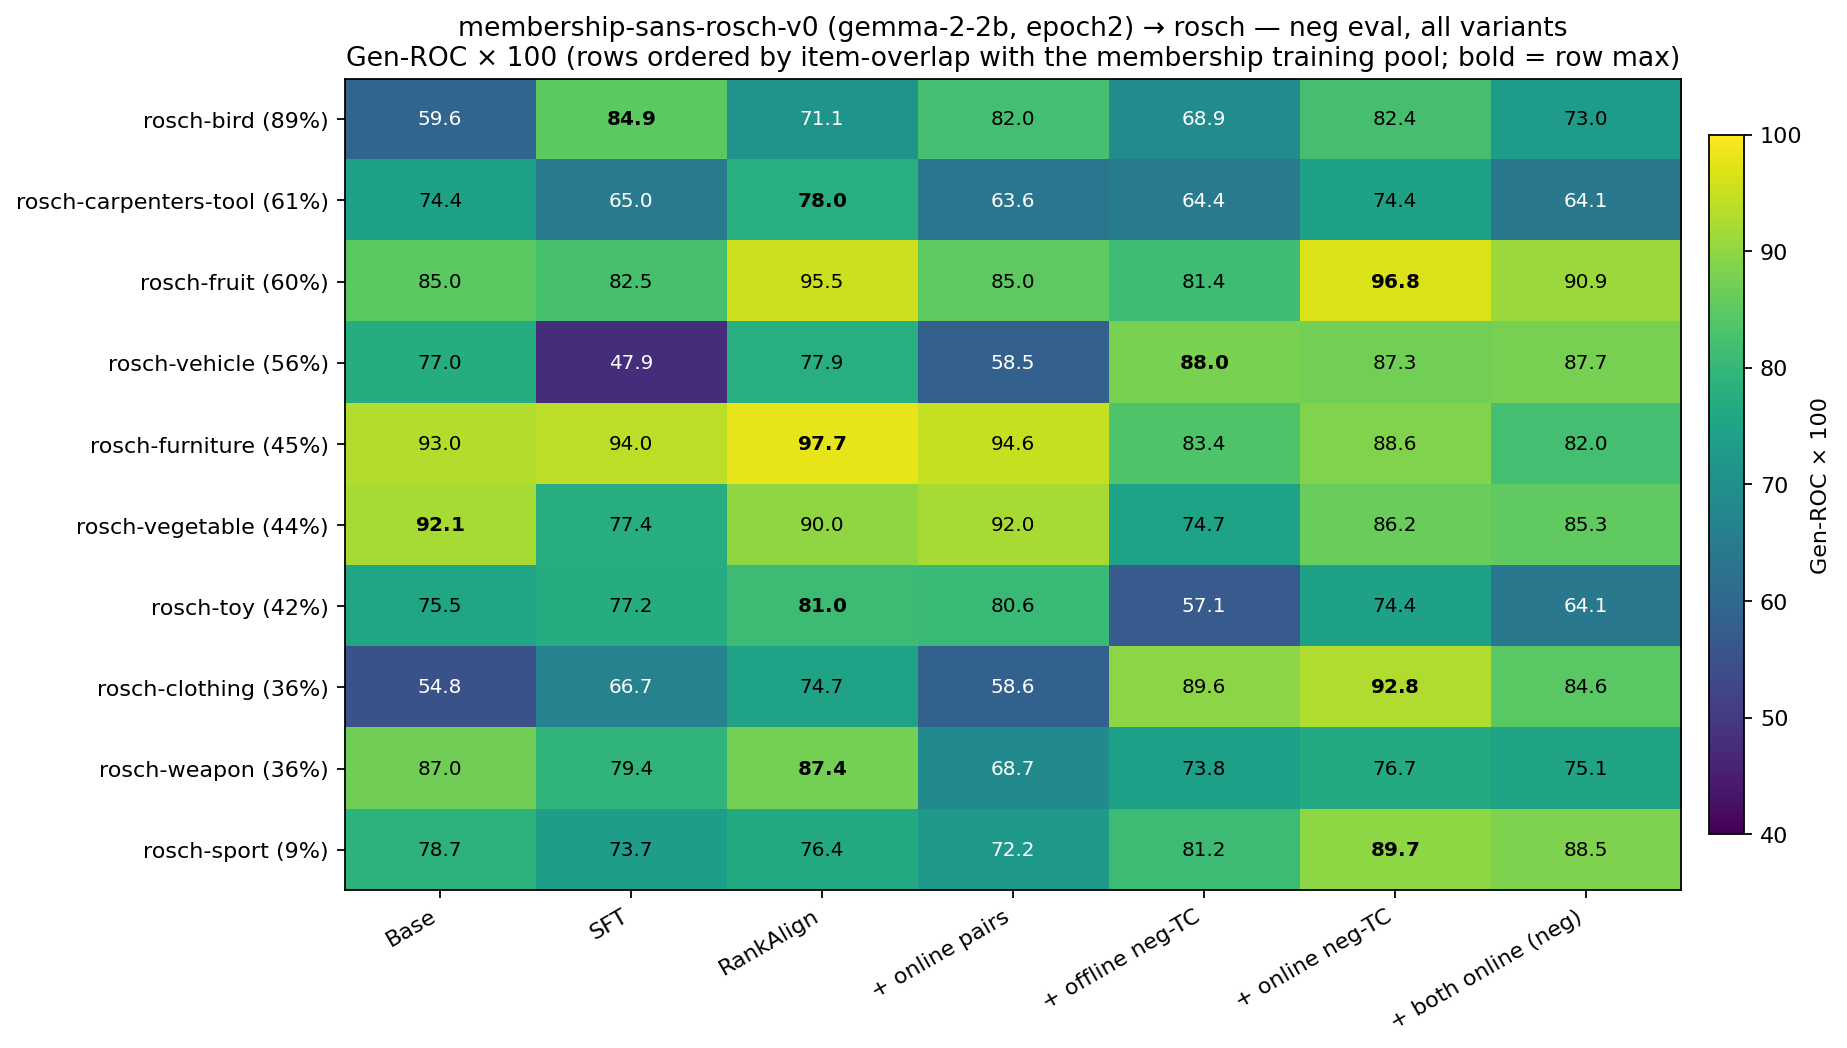
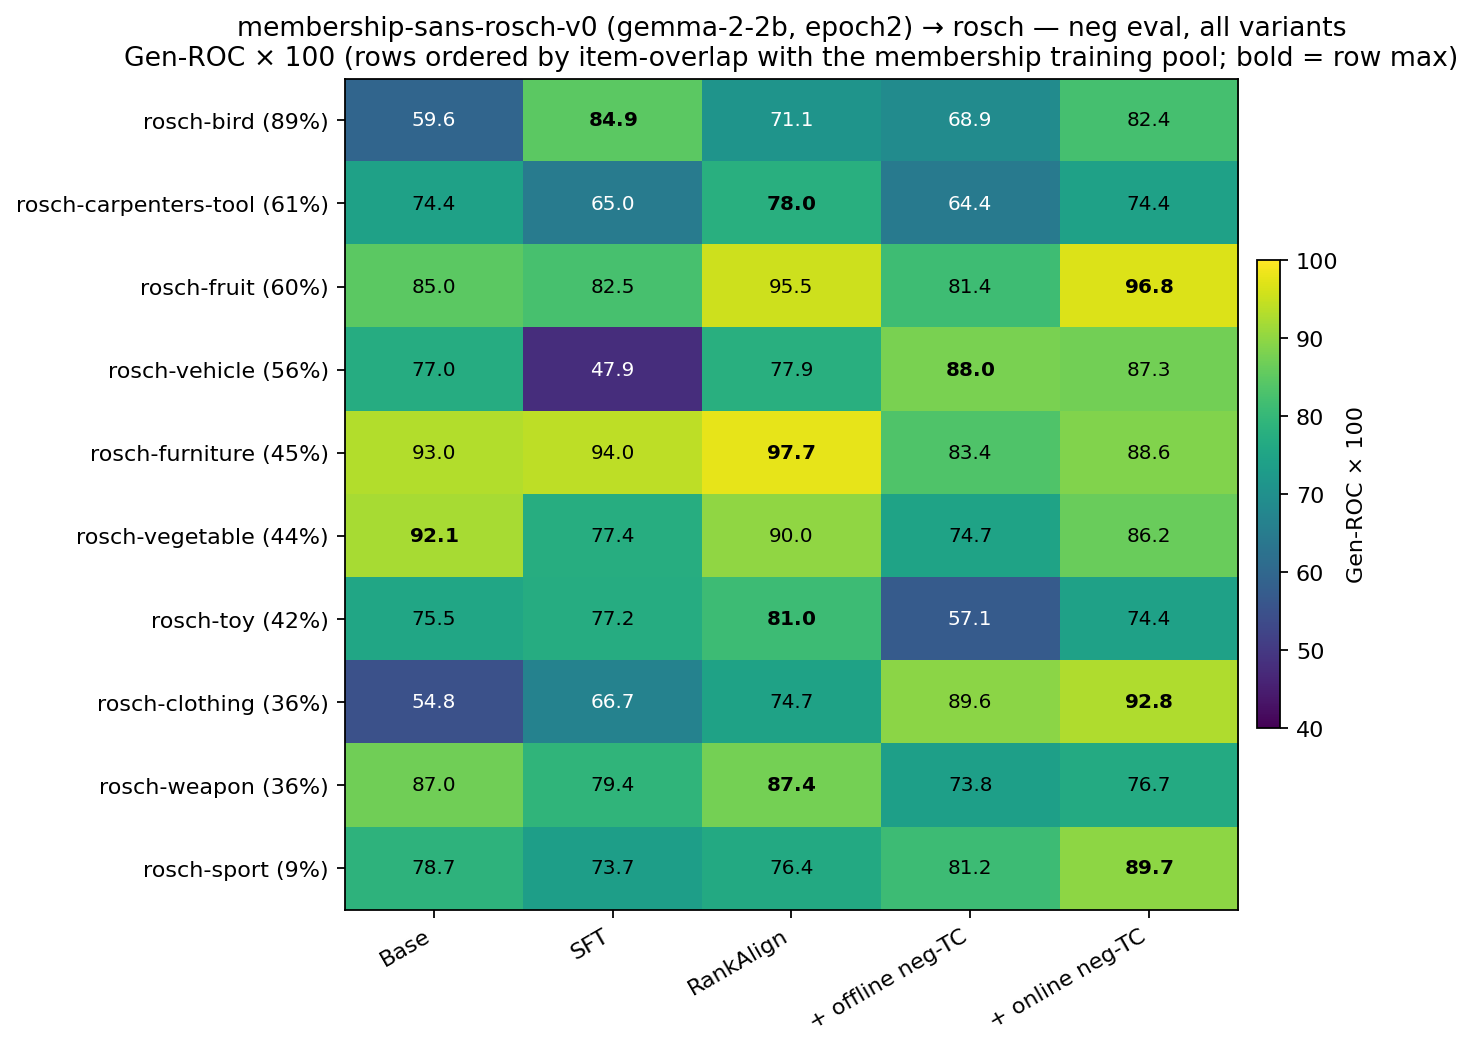
membership->rosch heatmaps: drop online-pairs and both-online columns

diff --git a/scripts/plot_membership_to_rosch_per_task.py b/scripts/plot_membership_to_rosch_per_task.py
@@ -70,19 +70,15 @@ SELF_HEATMAP = [
     ("0", "self",    "Base"),
     ("6", "self",    "SFT"),
     ("1", "self",    "RankAlign"),
-    ("4", "self",    "+ online pairs"),
     ("2", "basetyp", "+ offline self-TC"),
     ("3", "self",    "+ online self-TC"),
-    ("5", "self",    "+ both online (self)"),
 ]
 NEG_HEATMAP = [
     ("0", "neg",        "Base"),
     ("6", "neg",        "SFT"),
     ("1", "neg",        "RankAlign"),
-    ("4", "neg",        "+ online pairs"),
     ("7", "basetypneg", "+ offline neg-TC"),
     ("8", "neg",        "+ online neg-TC"),
-    ("9", "neg",        "+ both online (neg)"),
 ]
 
 SIG_MAP = {
